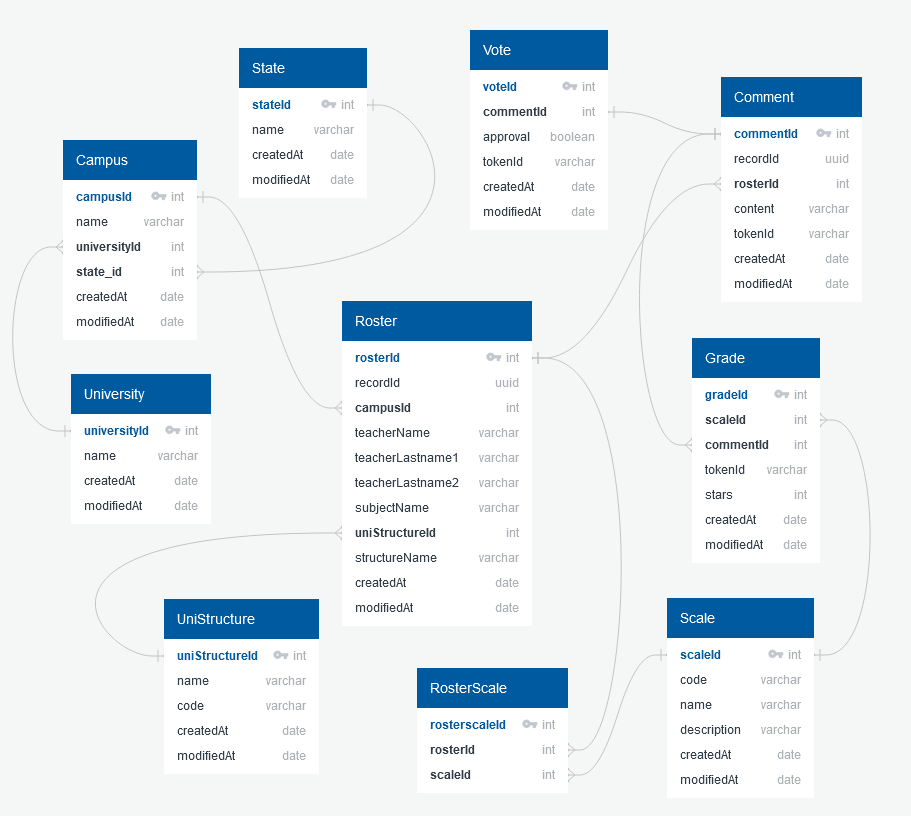
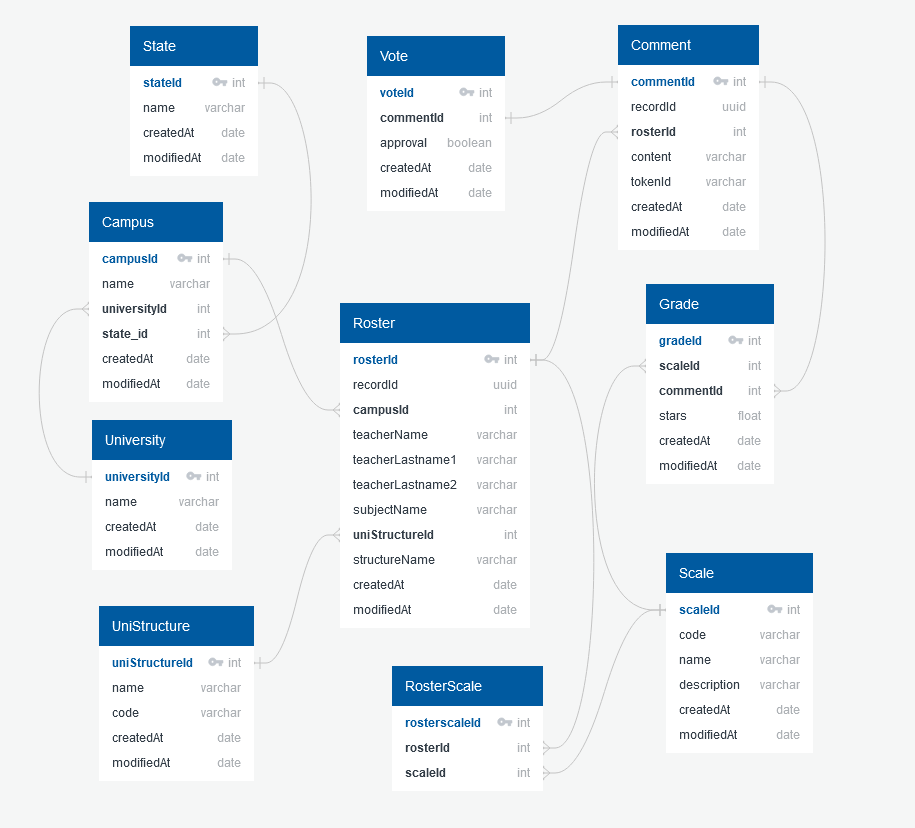
Functionality to add a comment

diff --git a/client/src/app/_components/dialogs/rate/rate.component.ts b/client/src/app/_components/dialogs/rate/rate.component.ts
@@ -2,7 +2,9 @@ import { Component, Inject, OnInit } from '@angular/core';
 import { FormArray, FormBuilder, FormGroup, Validators } from '@angular/forms';
 import { MAT_DIALOG_DATA } from '@angular/material/dialog';
 import { CommentDB, Grade, Roster, RosterDB, Scale, Vote } from 'src/app/_models/business';
+import { RatingService } from 'src/app/_services/rating.service';
 import { ScaleService } from 'src/app/_services/scale.service';
+import { SnackbarService } from 'src/app/_services/snackbar.service';
 
 @Component({
   selector: 'app-rate',
@@ -24,6 +26,8 @@ export class RateComponent implements OnInit {
     @Inject(MAT_DIALOG_DATA) public data: RosterDB,
     private fb: FormBuilder,
     private scaleService: ScaleService,
+    private ratingService: RatingService,
+    private snackbarService: SnackbarService,
   ) {
     this._scales = []
     this.scaleDescriptionStates = []
@@ -103,6 +107,7 @@ export class RateComponent implements OnInit {
   onSubmit(){
     if (this.isDataValid()) {
       let comment = new CommentDB();
+      comment.recordId = null;
       comment.content = this.comment;
       comment.rosterId = this.roster.rosterId!;
       comment.grades = [];
@@ -120,7 +125,14 @@ export class RateComponent implements OnInit {
         // Add them to the Comment
         comment.grades.push(grade);
       }
-      console.log("C:",comment);
+      this.ratingService.addComment(comment).subscribe({
+        next: _ => {
+          this.snackbarService.showSuccessMessage("Comentario agregado exitosamente.");
+        },
+        error: error => {
+          this.snackbarService.showErrorMessage(error.message);
+        }
+      });
     }
   }
 

diff --git a/client/src/app/_services/rating.service.ts b/client/src/app/_services/rating.service.ts
@@ -1,0 +1,22 @@
+import { HttpClient } from '@angular/common/http';
+import { Injectable } from '@angular/core';
+import { Observable } from 'rxjs';
+import { environment } from 'src/environments/environment';
+import { CommentDB } from '../_models/business';
+
+@Injectable({
+  providedIn: 'root'
+})
+export class RatingService {
+
+  private baseUrl = environment.api_url + "/api/rating";
+  constructor(
+    private http: HttpClient,
+  ) { }
+
+  public addComment(comment: CommentDB): Observable<CommentDB> {
+    const url = `${this.baseUrl}/comment`;
+    return this.http.post<CommentDB>(url, comment);
+  }
+
+}

diff --git a/back-csharp/_data/TeachersContext.cs b/back-csharp/_data/TeachersContext.cs
@@ -104,8 +104,13 @@ namespace back_csharp._data
                     .HasColumnName("rosterid");
                 entity.Property(e => e.TokenId )
                     .HasColumnName("tokenid");
+                entity.Property(e => e.CreatedAt)
+                    .HasColumnName("createdat");
                 entity.Property(e => e.ModifiedAt)
                     .HasColumnName("modifiedat");
+
+                entity.Property(e => e.RecordId)
+                    .HasDefaultValueSql("gen_random_uuid()");
 
                 entity.Property(e => e.CreatedAt)
                     .HasColumnType("timestamp without time zone")
@@ -135,8 +140,6 @@ namespace back_csharp._data
                     .HasColumnName("scaleid");
                 entity.Property(e => e.CommentId)
                     .HasColumnName("commentid");
-                entity.Property(e => e.TokenId)
-                    .HasColumnName("tokenid");
                 entity.Property(e => e.Stars)
                     .HasColumnName("stars");
                 entity.Property(e => e.CreatedAt)
@@ -149,17 +152,14 @@ namespace back_csharp._data
                     .HasDefaultValueSql("now()");
 
                 entity.Property(e => e.ModifiedAt)
-                    .HasColumnType("timestamp without time zone")
-                    .HasColumnName("modified_at");
+                    .HasColumnType("timestamp without time zone");
 
                 entity.Property(e => e.Stars)
                     .HasDefaultValueSql("0");
 
-                entity.Property(e => e.TokenId)
-                    .HasMaxLength(20);
-
                 entity.HasOne(d => d.Comment)
                     .WithMany(p => p.Grades)
+                    .HasForeignKey(d => d.CommentId)
                     .OnDelete(DeleteBehavior.ClientSetNull)
                     .HasConstraintName("grade_comment_id_fkey");
 
@@ -367,22 +367,19 @@ namespace back_csharp._data
                     .HasColumnName("commentid");
                 entity.Property(e => e.Approval)
                     .HasColumnName("approval");
-                entity.Property(e => e.TokenId)
-                    .HasColumnName("tokenid");
                 entity.Property(e => e.CreatedAt)
                     .HasColumnName("createdat");
                 entity.Property(e => e.ModifiedAt)
                     .HasColumnName("modifiedat");
 
+                entity.Property(e => e.Approval)
+                    .IsRequired(false);
                 entity.Property(e => e.CreatedAt)
                     .HasColumnType("timestamp without time zone")
                     .HasDefaultValueSql("now()");
 
                 entity.Property(e => e.ModifiedAt)
                     .HasColumnType("timestamp without time zone");
-
-                entity.Property(e => e.TokenId)
-                    .HasMaxLength(40);
 
                 entity.HasOne(d => d.Comment)
                     .WithOne(p => p.Vote)

diff --git a/back-csharp/_services/UnitOfWork.cs b/back-csharp/_services/UnitOfWork.cs
@@ -1,3 +1,4 @@
+using AutoMapper;
 using back_csharp._contracts;
 using back_csharp._data;
 using back_csharp._repos;
@@ -9,6 +10,7 @@ public class UnitOfWork: IUnitOfWork
 {
     private readonly DbContext _context;
     private readonly IConfiguration _config;
+    private readonly IMapper _mapper;
     private IUniversityRepo _universities;
     private IStateRepo _states;
     private IUniStructureRepo _uniStructures;
@@ -17,10 +19,11 @@ public class UnitOfWork: IUnitOfWork
     private IScaleRepo _scale;
     private IRatingRepo _rating;
 
-    public UnitOfWork(TeachersContext context, IConfiguration config)
+    public UnitOfWork(TeachersContext context, IConfiguration config, IMapper mapper)
     {
         _context = context;
         _config = config;
+        _mapper = mapper;
     }
 
     public IUniversityRepo Universities => _universities ??= new UniversityRepo(_context, _config);
@@ -29,7 +32,7 @@ public class UnitOfWork: IUnitOfWork
     public ICampusRepo Campus => _campus ??= new CampusRepo(_context, _config);
     public IRosterRepo Roster => _roster ??= new RosterRepo(_context, _config);
     public IScaleRepo Scale => _scale ??= new ScaleRepo(_context, _config);
-    public IRatingRepo Ratings => _rating ??= new RatingRepo(_context, _config);
+    public IRatingRepo Ratings => _rating ??= new RatingRepo(_context, _config, _mapper);
 
     public async Task Save()
     {

diff --git a/back-csharp/_repos/RatingRepo.cs b/back-csharp/_repos/RatingRepo.cs
@@ -1,4 +1,6 @@
-using back_csharp._contracts;
+using AutoMapper;
+using back_csharp._contracts;
+using back_csharp._dtos;
 using back_csharp._models;
 using Dapper;
 using Microsoft.EntityFrameworkCore;
@@ -10,12 +12,14 @@ public class RatingRepo: IRatingRepo
 {
     private readonly DbContext _context;
     private readonly IConfiguration _config;
+    private readonly IMapper _mapper;
     private readonly string _connectionString;
 
-    public RatingRepo(DbContext context, IConfiguration config)
+    public RatingRepo(DbContext context, IConfiguration config, IMapper mapper)
     {
         _context = context;
         _config = config;
+        _mapper = mapper;
         _connectionString = _config.GetConnectionString("TeachersDB");
     }
 
@@ -27,5 +31,14 @@ public class RatingRepo: IRatingRepo
         // Use the Query method to execute the query and return a list of objects
         List<Scale> scales = (await connection.QueryAsync<Scale>(sql)).ToList();
         return scales;  
+    }
+
+    public async Task<Comment> AddComment(CommentDTO commentDTO)
+    {
+        var comment = _mapper.Map<Comment>(commentDTO);
+        comment.TokenId = Guid.NewGuid().ToString();
+        _context.Set<Comment>().Add(comment);
+        await _context.SaveChangesAsync();
+        return comment;  
     }
 }

diff --git a/back-csharp/Controllers/RatingController.cs b/back-csharp/Controllers/RatingController.cs
@@ -1,4 +1,6 @@
-using back_csharp._contracts;
+using AutoMapper;
+using back_csharp._contracts;
+using back_csharp._dtos;
 using back_csharp._models;
 using Microsoft.AspNetCore.Http;
 using Microsoft.AspNetCore.Mvc;
@@ -10,20 +12,22 @@ namespace back_csharp.Controllers;
 public class RatingController : ControllerBase
 {
     private readonly IUnitOfWork _uow;
+    private readonly IMapper _mapper;
 
-    public RatingController(IUnitOfWork uow)
+    public RatingController(IUnitOfWork uow, IMapper mapper)
     {
         _uow = uow;
+        _mapper = mapper;
     }
 
-    [HttpGet]
-    public async Task<ActionResult<Scale>> Example()
+    [HttpPost("comment")]
+    public async Task<ActionResult<CommentDTO>> AddComment(CommentDTO commentDTO)
     {
-        var res = await _uow.Ratings.Example();
+        var res = await _uow.Ratings.AddComment(commentDTO);
         if (res == null)
         {
-            return NotFound();
+            return BadRequest("Hubo un error agregando el comentario.");
         }
-        return Ok(res);
+        return Ok(_mapper.Map<CommentDTO>(res));
     }
 }

diff --git a/back-csharp/_models/Roster.cs b/back-csharp/_models/Roster.cs
@@ -8,7 +8,6 @@ namespace back_csharp._models
         public Roster()
         {
             Comments = new HashSet<Comment>();
-            Grades = new HashSet<Grade>();
             RosterScales = new HashSet<RosterScale>();
         }
 
@@ -27,7 +26,6 @@ namespace back_csharp._models
         public virtual Campus Campus { get; set; } = null!;
         public virtual UniStructure UniStructure { get; set; } = null!;
         public virtual ICollection<Comment> Comments { get; set; }
-        public virtual ICollection<Grade> Grades { get; set; }
         public virtual ICollection<RosterScale> RosterScales { get; set; }
     }
 }

diff --git a/back-csharp/_models/Grade.cs b/back-csharp/_models/Grade.cs
@@ -8,8 +8,7 @@ namespace back_csharp._models
         public int GradeId { get; set; }
         public int ScaleId { get; set; }
         public int CommentId { get; set; }
-        public string TokenId { get; set; }
-        public int? Stars { get; set; }
+        public double Stars { get; set; }
         public DateTime CreatedAt { get; set; }
         public DateTime? ModifiedAt { get; set; }
 

diff --git a/back-csharp/_configs/AutoMapperConfigs.cs b/back-csharp/_configs/AutoMapperConfigs.cs
@@ -12,5 +12,8 @@ public class AutoMapperConfigs: Profile
         CreateMap<Campus, ShortCampusDTO>().ReverseMap();
         CreateMap<CampusDto, ShortCampusDTO>().ReverseMap();
         CreateMap<ScaleDto, Scale>().ReverseMap();
+        CreateMap<Grade, GradeDTO>().ReverseMap();
+        CreateMap<Comment, CommentDTO>().ReverseMap();
+        CreateMap<Vote, VoteDTO>().ReverseMap();
     }
 }

diff --git a/back-csharp/_dtos/CommentDTO.cs b/back-csharp/_dtos/CommentDTO.cs
@@ -1,0 +1,12 @@
+namespace back_csharp._dtos;
+
+public class CommentDTO
+{
+    public int CommentId { get; set; }
+    public string RecordId { get; set; }
+    public int RosterId { get; set; }
+    public string Content { get; set; }
+    public string TokenId { get; set; }
+    public IEnumerable<GradeDTO> Grades { get; set; }
+    public VoteDTO Vote { get; set; }
+}

diff --git a/back-csharp/_models/Vote.cs b/back-csharp/_models/Vote.cs
@@ -7,8 +7,7 @@ namespace back_csharp._models
     {
         public int VoteId { get; set; }
         public int CommentId { get; set; }
-        public bool Approval { get; set; }
-        public string TokenId { get; set; }
+        public bool? Approval { get; set; }
         public DateTime CreatedAt { get; set; }
         public DateTime? ModifiedAt { get; set; }
 

diff --git a/back-csharp/_contracts/IRatingRepo.cs b/back-csharp/_contracts/IRatingRepo.cs
@@ -1,8 +1,9 @@
-using back_csharp._models;
+using back_csharp._dtos;
+using back_csharp._models;
 
 namespace back_csharp._contracts;
 
 public interface IRatingRepo
 {
-    Task<IEnumerable<Scale>> Example();
+    Task<Comment> AddComment(CommentDTO commentDTO);
 }
